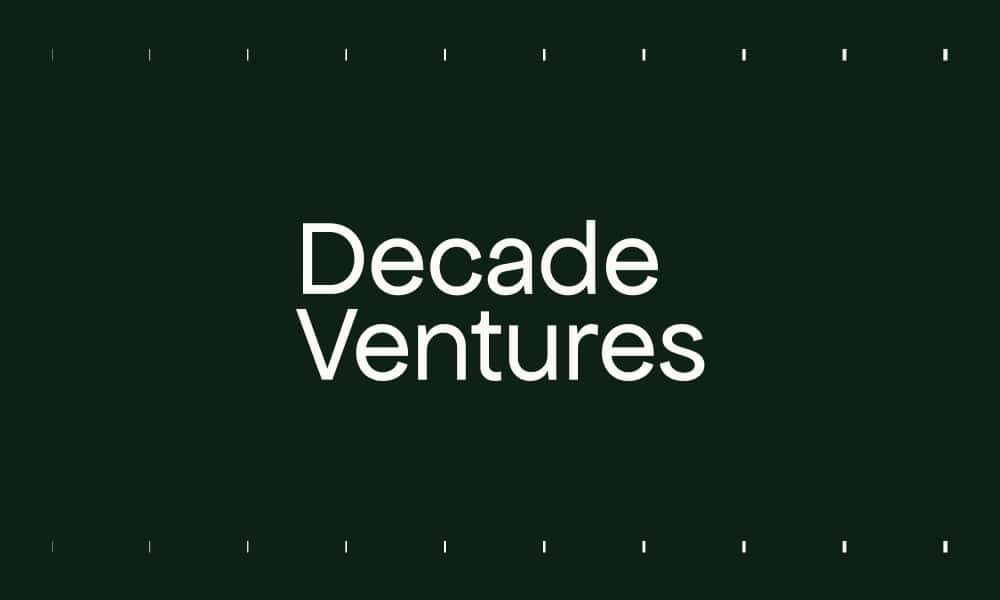
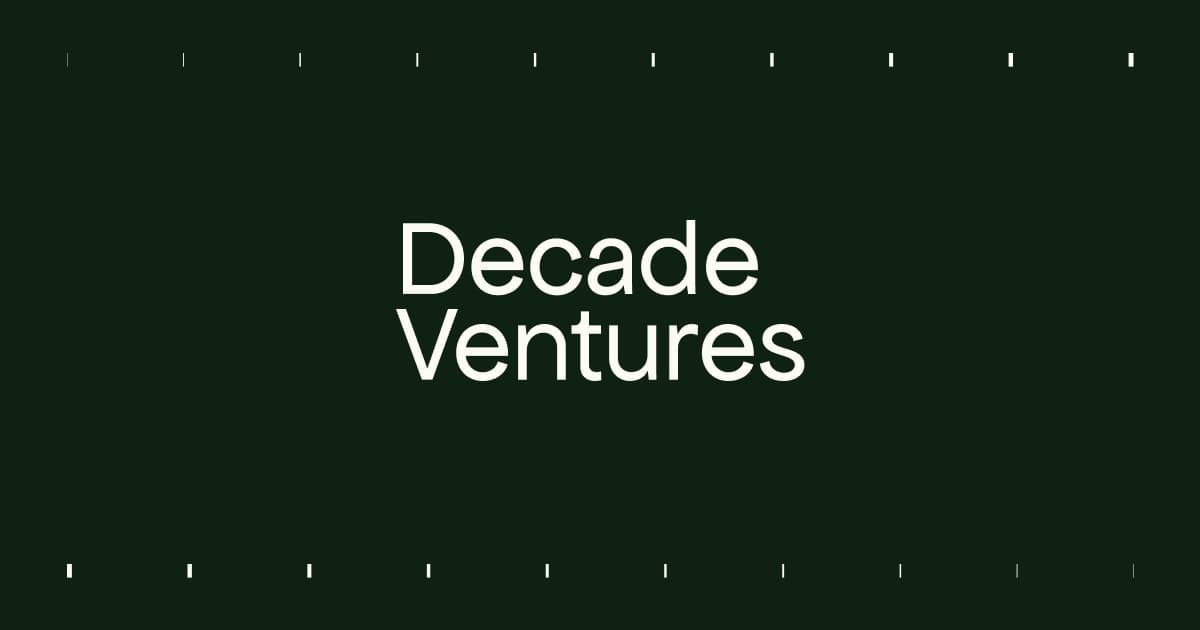
Fixed share image and meta tags

diff --git a/index.html b/index.html
@@ -24,13 +24,25 @@
 	<meta name="msapplication-config" content="assets/share/favicon/browserconfig.xml">
 	<meta name="theme-color" content="#0f2112">
 
-	<!-- Share Image -->
-	<meta property="og:image:width" content="1103">
-	<meta property="og:image:height" content="577">
+
+	<!-- Primary Meta Tags -->
+	<title>Decade Ventures</title>
+	<meta name="title" content="Decade Ventures">
+	<meta name="description" content="Remote incubation for climate adaptation startups (2022 - 2031)">
+
+	<!-- Open Graph / Facebook -->
+	<meta property="og:type" content="website">
+	<meta property="og:url" content="https://decade-ventures.com/">
 	<meta property="og:title" content="Decade Ventures">
 	<meta property="og:description" content="Remote incubation for climate adaptation startups (2022 - 2031)">
 	<meta property="og:image" content="assets/share/og-image.jpg">
-	<meta property="og:url" content="https://decade-ventures.com/">
+
+	<!-- Twitter -->
+	<meta property="twitter:card" content="summary_large_image">
+	<meta property="twitter:url" content="https://decade-ventures.com/">
+	<meta property="twitter:title" content="Decade Ventures">
+	<meta property="twitter:description" content="Remote incubation for climate adaptation startups (2022 - 2031)">
+	<meta property="twitter:image" content="assets/share/og-image.jpg">
 
 	<script type="text/javascript">
 		let vh = window.innerHeight * 0.01;
